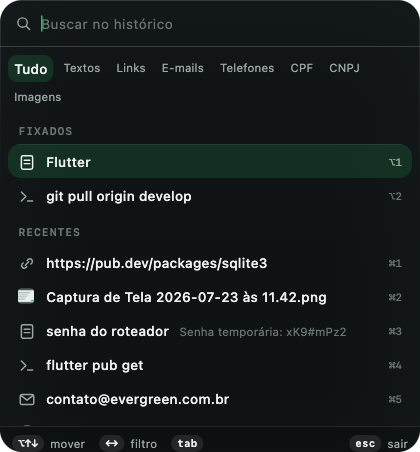
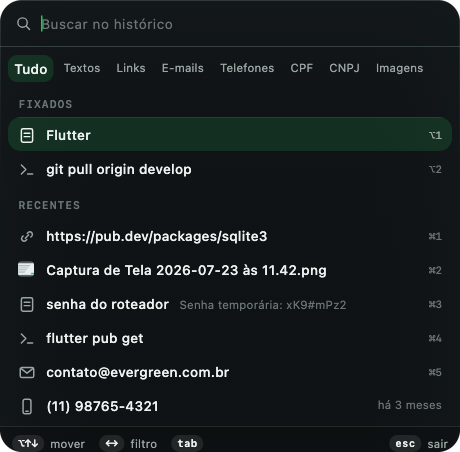
fix(pin): o painel alarga para 460px e a fila mantém os nomes
Da revisão: trocar os rótulos por ícones deixava a fila inteira sem nome
para ganhar uns pixels, contra a regra de que ícone que precisa de nome
falhou. O modo de ícone sai; o painel do Pin passa de 420 para 460px, a
fila (Tudo e mais sete tipos) cabe com folga numa linha, e o print da
apresentação acompanha a largura nova.

Claude-Session: https://claude.ai/code/session_01YUxYbqh6MSjmvVSwe9HbnV

diff --git a/lib/shared/widgets/eg_segmented_control.dart b/lib/shared/widgets/eg_segmented_control.dart
@@ -2,7 +2,6 @@ import 'package:flutter/services.dart';
 import 'package:flutter/widgets.dart';
 
 import '../../core/design/app_metrics.dart';
-import 'eg_icon.dart';
 import 'eg_surface.dart';
 import '../../core/design/eg_tokens.dart';
 
@@ -23,7 +22,6 @@ class EgSegmentedControl<T> extends StatefulWidget {
     required this.onChanged,
     this.bare = false,
     this.focusable = true,
-    this.iconOf,
   });
 
   final T value;
@@ -45,16 +43,6 @@ class EgSegmentedControl<T> extends StatefulWidget {
   /// foco é sempre do campo de busca, e o Tab abre o preview; ali quem anda
   /// pela fila é o `⌘←` / `⌘→` do próprio painel.
   final bool focusable;
-
-  /// O ícone de cada opção, para quando os rótulos não cabem numa linha.
-  ///
-  /// Sem ele, o controle quebra linha (ver o `Wrap` em [build]). Com ele, a
-  /// fila que não cabe fica numa linha só: as opções que têm ícone mostram só
-  /// o ícone, e a escolhida mostra ícone e rótulo — é a fila do Pin com todos
-  /// os tipos no histórico, que quebrava e deixava "Imagens" sozinha embaixo.
-  /// Opção sem ícone (o "Tudo") continua com o rótulo. Onde os rótulos cabem,
-  /// nada muda.
-  final EgIconData? Function(T option)? iconOf;
 
   @override
   State<EgSegmentedControl<T>> createState() => _EgSegmentedControlState<T>();
@@ -99,49 +87,7 @@ class _EgSegmentedControlState<T> extends State<EgSegmentedControl<T>> {
     );
   }
 
-  /// Os rótulos inteiros cabem em [maxWidth]?
-  ///
-  /// A conta é a do `Wrap` numa linha: cada rótulo no estilo em que ele vai
-  /// aparecer, mais o padding da pílula e o vão entre elas.
-  bool _labelsFit(BuildContext context, double maxWidth) {
-    final scaler = MediaQuery.textScalerOf(context);
-    final direction = Directionality.of(context);
-    final padding = 2 * _Segment.horizontalPadding(bare: widget.bare);
-    final spacing = widget.bare ? AppSpacing.xxs : 0.0;
-
-    var width = widget.bare ? 0.0 : 2 * AppSpacing.xxxs;
-    for (final (index, option) in widget.options.indexed) {
-      final painter = TextPainter(
-        text: TextSpan(
-          text: widget.labelOf(option),
-          style: option == widget.value
-              ? context.eg.text.bodyEmphasis
-              : context.eg.text.caption,
-        ),
-        textDirection: direction,
-        textScaler: scaler,
-        maxLines: 1,
-      )..layout();
-      width += painter.width + padding + (index == 0 ? 0 : spacing);
-      painter.dispose();
-    }
-
-    return width <= maxWidth;
-  }
-
   Widget _control() {
-    if (widget.iconOf == null) return _box(compact: false);
-
-    return LayoutBuilder(
-      builder: (context, constraints) => _box(
-        compact:
-            constraints.hasBoundedWidth &&
-            !_labelsFit(context, constraints.maxWidth),
-      ),
-    );
-  }
-
-  Widget _box({required bool compact}) {
     return AnimatedContainer(
       duration: AppDurations.instant,
       curve: AppDurations.curve,
@@ -174,7 +120,6 @@ class _EgSegmentedControlState<T> extends State<EgSegmentedControl<T>> {
               isSelected: option == widget.value,
               onTap: () => widget.onChanged(option),
               bare: widget.bare,
-              icon: compact ? widget.iconOf!(option) : null,
             ),
         ],
       ),
@@ -188,11 +133,7 @@ class _Segment extends StatelessWidget {
     required this.isSelected,
     required this.onTap,
     this.bare = false,
-    this.icon,
   });
-
-  static double horizontalPadding({required bool bare}) =>
-      bare ? AppSpacing.xs : AppSpacing.md;
 
   final String label;
   final bool isSelected;
@@ -205,10 +146,6 @@ class _Segment extends StatelessWidget {
   /// pílula órfã custaria mais altura do que ela vale num painel que se lê de
   /// relance.
   final bool bare;
-
-  /// Na fila compacta: o ícone no lugar do rótulo, e ao lado dele na opção
-  /// escolhida. `null` é o rótulo de sempre.
-  final EgIconData? icon;
 
   @override
   Widget build(BuildContext context) {
@@ -228,43 +165,22 @@ class _Segment extends StatelessWidget {
       // Concêntrico com o container: 6px do pai menos os 2px de padding.
       borderRadius: context.eg.shapes.segmentAll,
       padding: EdgeInsets.symmetric(
-        horizontal: horizontalPadding(bare: bare),
+        horizontal: bare ? AppSpacing.xs : AppSpacing.md,
         vertical: AppSpacing.xxs,
       ),
-      // Só o ícone na tela, então quem diz o nome ao leitor de tela é a
-      // superfície. Com o rótulo visível, ele mesmo é a etiqueta.
-      semanticLabel: icon == null ? null : label,
       builder: (context, state) {
         final style = isSelected
             ? context.eg.text.bodyEmphasis
             : context.eg.text.caption;
-        final color = context.eg.surfaces.segment.foregroundFor(
-          state,
-          isSelected: isSelected,
-        );
-        final text = Text(label, style: style.copyWith(color: color));
 
-        final glyph = icon;
-        if (glyph == null) return text;
-
-        // A altura da linha do rótulo, para a pílula de ícone não ficar mais
-        // baixa que a do "Tudo" ao lado dela.
-        final iconRow = SizedBox(
-          height: style.fontSize! * style.height!,
-          child: Center(
-            widthFactor: 1,
-            child: EgIcon(glyph, size: AppIconSizes.xs, color: color),
+        return Text(
+          label,
+          style: style.copyWith(
+            color: context.eg.surfaces.segment.foregroundFor(
+              state,
+              isSelected: isSelected,
+            ),
           ),
-        );
-        if (!isSelected) return iconRow;
-
-        return Row(
-          mainAxisSize: MainAxisSize.min,
-          children: [
-            iconRow,
-            const SizedBox(width: AppSpacing.xxs),
-            text,
-          ],
         );
       },
     );

diff --git a/lib/features/pin/presentation/views/pin_overlay_view.dart b/lib/features/pin/presentation/views/pin_overlay_view.dart
@@ -52,7 +52,13 @@ class _PinOverlayViewState extends ConsumerState<PinOverlayView> {
   bool _isPreviewOpen = false;
 
   /// Largura do painel em cada modo, conforme as telas do design.
-  static const _listOnlyWidth = 420.0;
+  ///
+  /// 460, e não os 420 de antes: com todos os tipos no histórico (Tudo e mais
+  /// sete) a fila de filtros pedia uns 425px, e "Imagens" descia sozinha para
+  /// uma segunda linha. Trocar os rótulos por ícones foi tentado e saiu — um
+  /// ícone que precisa de nome falhou —, e apertar as pílulas deixava a
+  /// escolhida sem respiro. Com 460 a fila cabe com folga e os nomes inteiros.
+  static const _listOnlyWidth = 460.0;
   static const _withPreviewWidth = 560.0;
   static const _maxPanelHeight = 460.0;
 

diff --git a/lib/features/pin/presentation/widgets/pin_type_filter_bar.dart b/lib/features/pin/presentation/widgets/pin_type_filter_bar.dart
@@ -40,10 +40,6 @@ class PinTypeFilterBar extends StatelessWidget {
           value: state.typeFilter,
           options: state.typeFilterOptions,
           labelOf: (type) => type?.filterLabel ?? 'Tudo',
-          // Com todos os tipos no histórico os rótulos não cabem nos 420px
-          // do painel: os não escolhidos viram o ícone do tipo — o mesmo da
-          // linha da lista —, e a fila continua numa linha só.
-          iconOf: (type) => type?.icon,
           onChanged: onChanged,
           bare: true,
           focusable: false,

diff --git a/lib/features/pin/presentation/viewmodels/pin_overlay_state.dart b/lib/features/pin/presentation/viewmodels/pin_overlay_state.dart
@@ -98,8 +98,8 @@ class PinOverlayState {
   /// Tipos que existem no histórico agora, na ordem do enum.
   ///
   /// A fila de pílulas sai daqui, e não de `ClipboardItemType.values`: um
-  /// filtro que não tem o que mostrar é uma promessa vazia — e as sete pílulas
-  /// de uma vez não caberiam nos 420px do painel.
+  /// filtro que não tem o que mostrar é uma promessa vazia — e as pílulas
+  /// sobrariam numa fila que não precisa delas.
   final List<ClipboardItemType> availableTypes;
 
   /// Índice da seleção dentro de [results].

diff --git a/lib/features/home/models/onboarding_step.dart b/lib/features/home/models/onboarding_step.dart
@@ -60,7 +60,7 @@ class OnboardingStep {
     OnboardingStep(
       module: EvergreenModule.pin,
       image: 'assets/onboarding/pin.png',
-      imageWidth: 420,
+      imageWidth: 460,
       imageHeight: 452,
       shortcut: '⌘⇧C',
       line:

diff --git a/.claude/skills/evergreen-design/components.md b/.claude/skills/evergreen-design/components.md
@@ -16,7 +16,7 @@ Antes de desenhar um componente novo, procure aqui. Módulos novos devem **reusa
 | `EgIconButton` | `eg_button.dart` | botão só de ícone, 36×36, com `tooltip` opcional | default · hover · pressed · focus · disabled |
 | `EgToggle` | `eg_toggle.dart` | switch de preferência | default · hover · pressed · focus · disabled · on/off |
 | `EgShortcutRecorder` | `eg_shortcut_recorder.dart` | os key-caps de um atalho global + o botão que põe a tela à escuta; devolve a combinação apertada e não decide nada | repouso · gravando |
-| `EgSegmentedControl` | `eg_segmented_control.dart` | escolha única entre 3–4 opções curtas; ← → quando focado; `bare` tira a caixa (fila de filtros do Pin); sem largura quebra linha, a não ser que tenha `iconOf` — aí as opções não escolhidas viram o ícone e a fila fica numa linha (o Pin com todos os tipos, onde os ícones são os mesmos da lista) | default · hover · pressed · focus · selected |
+| `EgSegmentedControl` | `eg_segmented_control.dart` | escolha única entre 3–4 opções curtas; ← → quando focado; `bare` tira a caixa (fila de filtros do Pin) | default · hover · pressed · focus · selected |
 | `EgSearchField` | `eg_search_field.dart` | campo de busca (`bare` para a linha do topo do overlay) | default · focus (borda accent) · placeholder |
 | `EgTextField` | `eg_text_field.dart` | campo de texto de uma linha que a pessoa escreve e confirma (atividade e resumo do Focus); `bare` + `style` para renomear no lugar um título (o nome da reunião do Echo), no degrau dele | default · focus (borda accent) · disabled |
 | `EgHintBar` / `EgHint` | `eg_hint_bar.dart` | rodapé de atalhos de um painel operado por teclado | — |
